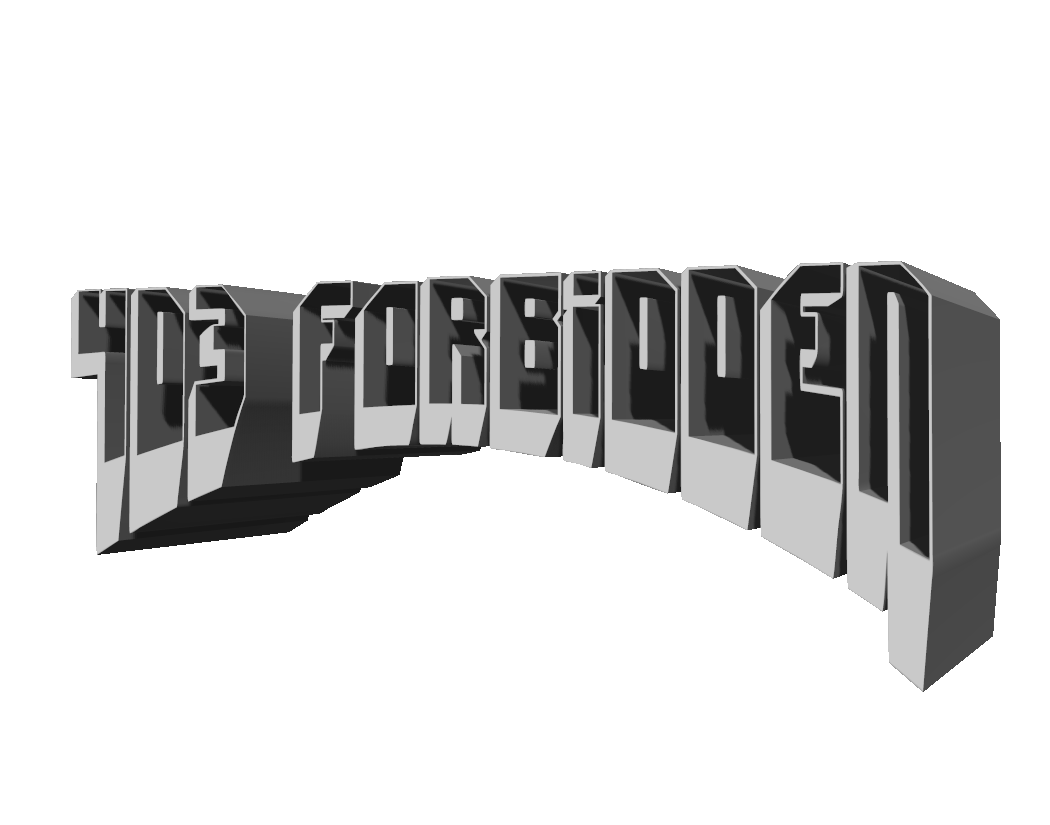
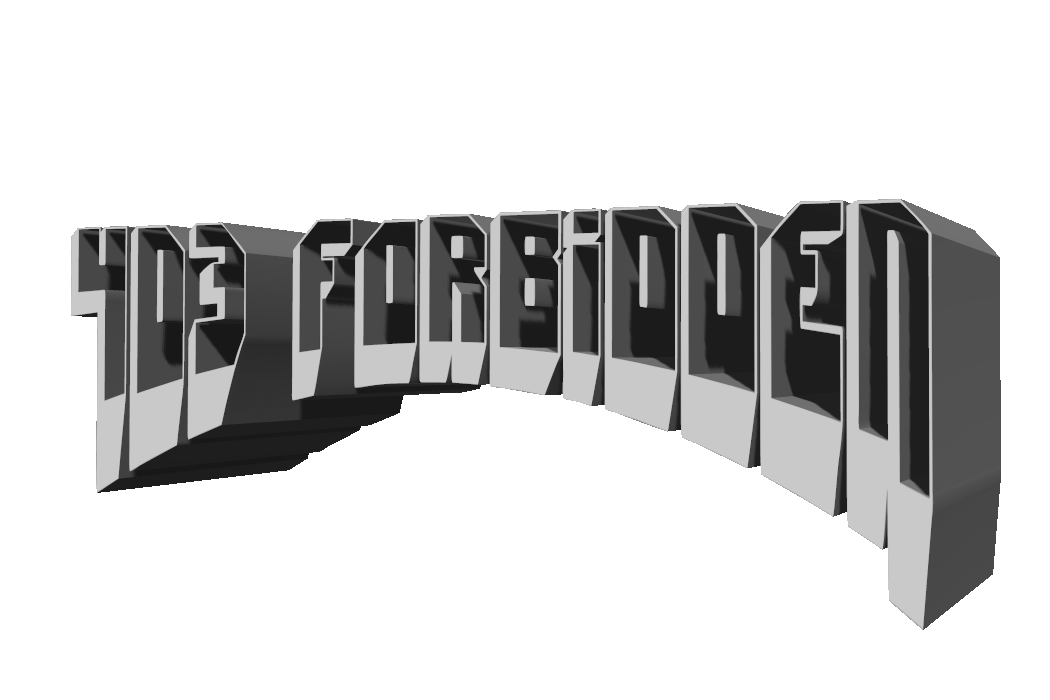
Updates to sizing

diff --git a/sketch.js b/sketch.js
@@ -16,7 +16,8 @@ function preload() {
 }
 
 function setup() {
-  createCanvas(windowWidth, windowHeight);
+  createCanvas(1050, 700);
+  //windowWidth, windowHeight
   //background(247, 246, 249);
 
 }
